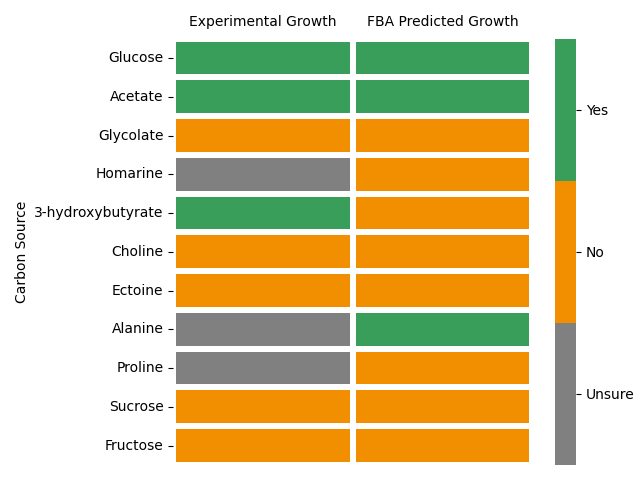
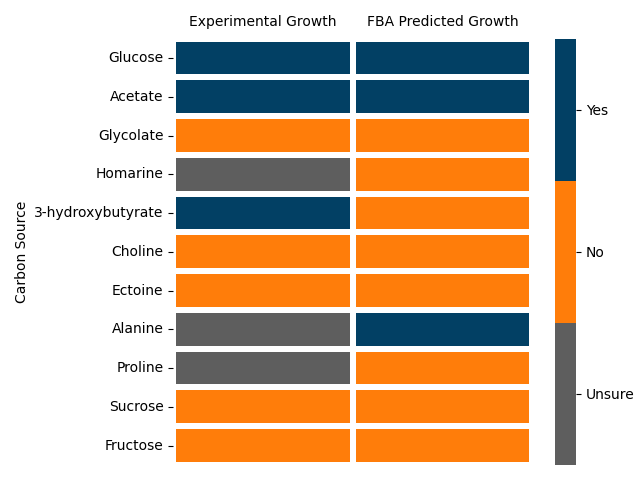
Plot with C-CoMP Colors

Changed region(s): [[0.25, 0.0625, 0.9062, 0.375], [0.25, 0.625, 0.9062, 0.9688], [0.25, 0.3125, 0.5625, 0.5]]

diff --git a/plot_growth_phenotypes.py b/plot_growth_phenotypes.py
@@ -27,7 +27,8 @@ value_to_int = {'Unsure': 0, 'No': 1, 'Yes': 2}
 n = len(value_to_int)
 
 # Make a colormap of specified colors (in numerical order for the phenotypes)
-cmap = ['gray', '#F18F01', '#399E5A']
+# cmap = ['gray', '#F18F01', '#399E5A'] # Gray, orange, green
+cmap = ['#5E5E5E', '#FF7D0A', '#024064'] # C-CoMP gray, orange, and dark blue
 
 # Plot the heatmap
 ax = sns.heatmap(growth_phenotypes.replace(value_to_int),
